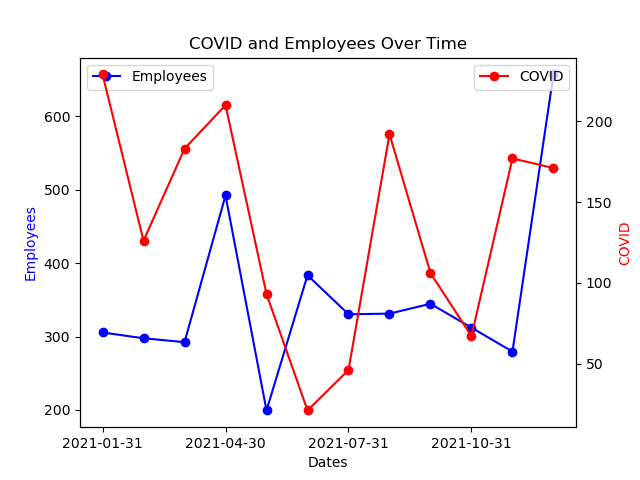
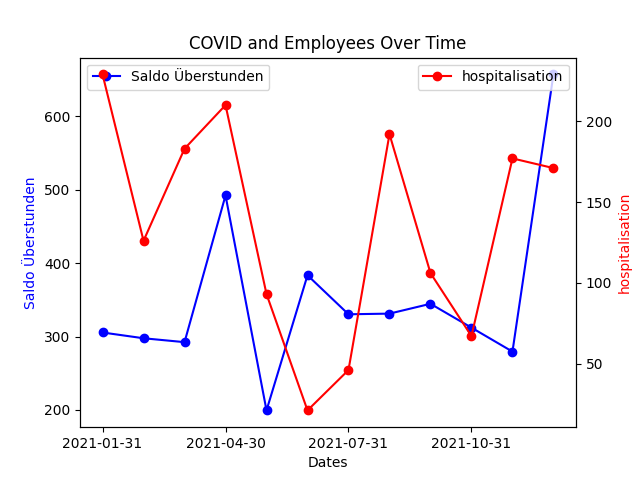
added all MA select options

diff --git a/svelte_sp_interface/src/pages/ComparisonPage.svelte b/svelte_sp_interface/src/pages/ComparisonPage.svelte
@@ -1,5 +1,4 @@
 <script>
-
     var globalVariable = "empty";
 
     let selectedOption = {
@@ -21,31 +20,31 @@
         let x = 0;
         let y = 0;
 
-        if (
-            selectedOption.option1 === "overtime" &&
-            selectedOption.option2 === "cases"
-        ) {
+        if (selectedOption.option1 === "overtime") {
             x = 1;
-            y = 1;
-        } else if (
-            selectedOption.option1 === "overtime" &&
-            selectedOption.option2 === "hospitalisation"
-        ) {
-            x = 1;
-            y = 2;
-        } else if (
-            selectedOption.option1 === "sollist" &&
-            selectedOption.option2 === "cases"
-        ) {
+        } else if (selectedOption.option1 === "GLAZ") {
+            x = 2;
+        } else if (selectedOption.option1 === "COVID-Hours") {
+            x = 3;
+        } else if (selectedOption.option1 === "IST") {
+            x = 4;
+        } else if (selectedOption.option1 === "SOLL") {
+            x = 5;
+        } else if (selectedOption.option1 === "sollist") {
             x = 6;
+        } else if (selectedOption.option1 === "Ferien") {
+            x = 7;
+        }
+
+        if (selectedOption.option2 === "cases") {
             y = 1;
-        } else {
-            x = 6;
+        } else if (selectedOption.option2 === "hospitalisation") {
             y = 2;
         }
+
         console.log("x:", x, "y:", y);
         globalVariable = x.toString() + y.toString();
-        console.log(globalVariable)
+        console.log(globalVariable);
     }
 </script>
 
@@ -54,7 +53,12 @@
 <select id="employeeData" on:change={updateSelectedOption1}>
     <option value="">data employee</option>
     <option value="overtime">overtime</option>
+    <option value="GLAZ">GLAZ</option>
+    <option value="COVID-Hours">Explicit COVID Workhours</option>
+    <option value="IST">IST</option>
+    <option value="SOLL">Soll</option>
     <option value="sollist">soll-ist</option>
+    <option value="Ferien">Holidays</option>
 </select>
 
 <select id="covidData" on:change={updateSelectedOption2}>
@@ -65,9 +69,9 @@
 
 <button on:click={handleCommit}>show graph</button>
 
-<div></div>
+<div />
 
-<img src="/img/plot{globalVariable}.png" alt="plot">
+<img src="/img/plot{globalVariable}.png" alt="plot" />
 
 <style>
     h1 {

diff --git a/python_sp_calc/calc.py b/python_sp_calc/calc.py
@@ -4,13 +4,14 @@ import pandas as pd
 
 def graph(employee, covid):
     # Connect to the SQLite database
-    conn = sqlite3.connect('/Users/mariusaffolter/Documents/GitHub/sp_project_janosh_marius/backend_sp_db/Database/project_SP.db')
+    conn = sqlite3.connect('C:/Users/spunk/OneDrive/Janosh/ZHAW/Module/Semester 4/SCI/Challenge/SP Project/sp_project_janosh_marius/backend_sp_db/Database/project_SP.db')
+
 
     # Read data from tables using pandas
     rows1 = pd.read_sql_query("SELECT * FROM Covid_Data", conn)
     rows2 = pd.read_sql_query("SELECT * FROM SP_Project_Sums", conn)
 
-    # Close the database connection
+     # Close the database connection
     conn.close()
 
     # Store the values in separate lists
@@ -18,16 +19,19 @@ def graph(employee, covid):
     employee_list = rows2.iloc[:, employee]
     covid_list = rows1.iloc[:, covid]
 
+    employee_label = rows2.columns[employee]
+    covid_label = rows1.columns[covid]
+
     # Create a line graph using Matplotlib with dual y-axes
     fig, ax1 = plt.subplots()
 
-    ax1.plot(dates, employee_list, 'bo-', label='Employees')
+    ax1.plot(dates, employee_list, 'bo-', label=employee_label)
     ax1.set_xlabel('Dates')
-    ax1.set_ylabel('Employees', color='b')
+    ax1.set_ylabel(employee_label, color='b')
 
     ax2 = ax1.twinx()  # Create a secondary y-axis
-    ax2.plot(dates, covid_list, 'ro-', label='COVID')
-    ax2.set_ylabel('COVID', color='r')
+    ax2.plot(dates, covid_list, 'ro-', label=covid_label)
+    ax2.set_ylabel(covid_label, color='r')
 
     # Set title and legends
     plt.title('COVID and Employees Over Time')
@@ -36,9 +40,20 @@ def graph(employee, covid):
 
     plt.xticks(rotation=45)  # Rotate x-axis labels for better readability
     plt.xticks(range(0, len(dates), 3)) 
-    plt.savefig(f'/Users/mariusaffolter/Documents/GitHub/sp_project_janosh_marius/svelte_sp_interface/public/img/plot{employee}{covid}.png')
+    plt.savefig(f'C:/Users/spunk/OneDrive/Janosh/ZHAW/Module/Semester 4/SCI/Challenge/SP Project/sp_project_janosh_marius/svelte_sp_interface/public/img/plot{employee}{covid}.png')
+
 
 graph(1,1)
-graph(1,2)
+graph(2,1)
+graph(3,1)
+graph(4,1)
+graph(5,1)
 graph(6,1)
+graph(7,1)
+graph(1,2)
+graph(2,2)
+graph(3,2)
+graph(4,2)
+graph(5,2)
 graph(6,2)
+graph(7,2)
